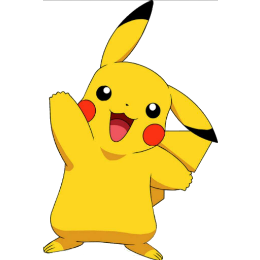
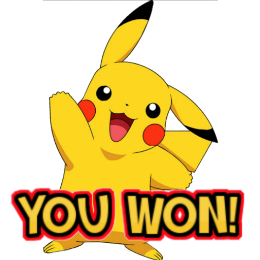
Add StatusImage component

Changed region(s): [[0.0308, 0.7077, 0.9538, 0.9538]]

diff --git a/src/App.js b/src/App.js
@@ -1,5 +1,6 @@
 import React, { Component } from "react";
 import GameLogo from './components/atoms/game-logo';
+import StatusImage from './components/atoms/status-image';
 import NumberOfLives from './components/atoms/number-of-lives';
 import NameProgress from './components/atoms/name-progress';
 import AlphabetButtons from './components/molecules/alphabet-buttons';
@@ -10,7 +11,8 @@ class App extends Component {
     return (
       <div className="App">
         <GameLogo />
-        <div>image placeholder</div>
+        <StatusImage
+          status='playing' />
         <NumberOfLives
           lives={6} />
         <NameProgress

diff --git a/src/components/atoms/status-image.js b/src/components/atoms/status-image.js
@@ -1,0 +1,15 @@
+import React from 'react';
+import PropTypes from 'prop-types';
+import { statusImages } from "../../constants/game-constants";
+
+const StatusImage = ({ status }) =>
+  <img
+    alt="status"
+    className="App__status-image"
+    src={`/images/${statusImages[status]}.png`} />;
+
+export default StatusImage;
+
+StatusImage.propTypes = {
+  status: PropTypes.string.isRequired
+};

diff --git a/src/constants/game-constants.js b/src/constants/game-constants.js
@@ -184,7 +184,14 @@ const alphabetLetters = [
   'Z'
 ];
 
+const statusImages = {
+  playing: 'gottaCatchEmAll',
+  won: 'happy-pikachu',
+  lost: 'sad-pikachu'
+};
+
 export {
   pokemonList,
-  alphabetLetters
+  alphabetLetters,
+  statusImages
 };
